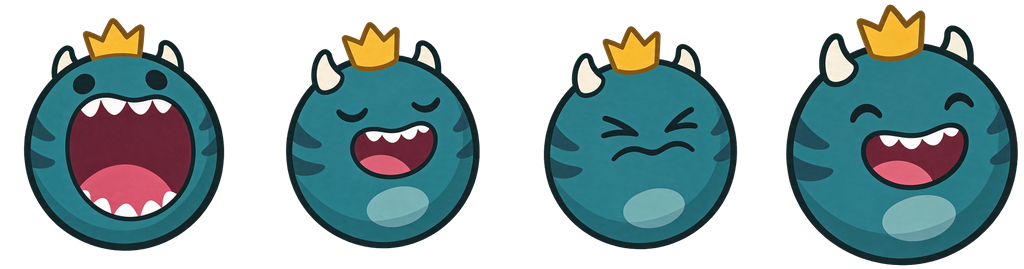
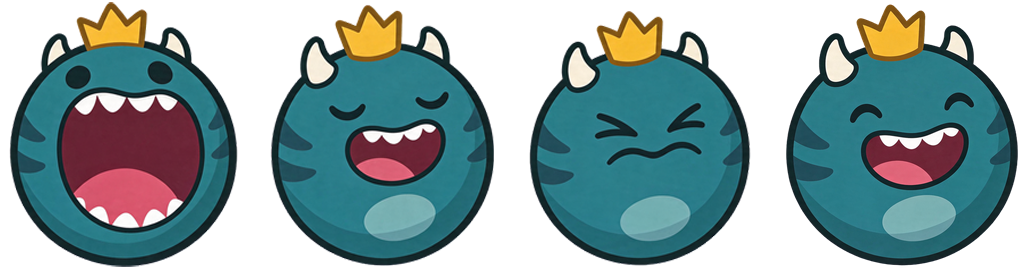
Minion Swarm Claude: minion lv6-8 and eating lv6/lv8 scales, colliders shown, new eating lv6 art, PSD cleanup, Beaver River mockup PSD, build 39

Changed region(s): [[0.0, 0.0, 0.75, 1.0]]

diff --git a/minion-swarm/game.js b/minion-swarm/game.js
@@ -6,7 +6,7 @@
 
 // Build number, shown in the corner. Bump it together with the ?v= in
 // index.html on every push so phones load the new version.
-const BUILD = 38;
+const BUILD = 39;
 
 // ---- Tunable values (all in one place) ------------------------------------
 
@@ -194,9 +194,9 @@ const CONFIG = {
   // the Scale slider on each row in 🎨. Only the picture changes, not colliders.
   artScale: {
     minion_lv1: 1, minion_lv2: 0.85, minion_lv3: 0.75, minion_lv4: 0.65,
-    minion_lv5: 0.7, minion_lv6: 1, minion_lv7: 1, minion_lv8: 1,
+    minion_lv5: 0.7, minion_lv6: 0.95, minion_lv7: 0.95, minion_lv8: 0.9,
     minion_eat: 1, minion_eat_lv2: 1, minion_eat_lv3: 1, minion_eat_lv4: 1,
-    minion_eat_lv5: 1, minion_eat_lv6: 1, minion_eat_lv7: 1, minion_eat_lv8: 1,
+    minion_eat_lv5: 1, minion_eat_lv6: 1.05, minion_eat_lv7: 1, minion_eat_lv8: 0.9,
     minion_leg: 1, minion_shadow: 1,
     resource_1: 1.4, resource_2: 1.25, resource_3: 2.25, resource_4: 1.7, resource_5: 2.2, resource_6: 1.6,
     splash_drop: 1, merge_vfx: 1, tap_marker: 1,
@@ -206,7 +206,7 @@ const CONFIG = {
 
   clearDelay: 1.2,          // seconds between zones
   showLeader: false,        // debug: draw the invisible leader
-  showColliders: false,     // debug: draw collider circles (resources cyan, minions pink)
+  showColliders: true,      // debug: draw collider circles (resources cyan, minions pink)
   loading: {
     text: 'Loading...',
     fontSize: 20,

diff --git a/minion-swarm/index.html b/minion-swarm/index.html
@@ -26,8 +26,8 @@
   <div class="stage">
     <canvas id="game" width="360" height="560"></canvas>
   </div>
-  <script src="../shared/settings-panel.js?v=38"></script>
-  <script src="../shared/asset-panel.js?v=38"></script>
-  <script src="game.js?v=38"></script>
+  <script src="../shared/settings-panel.js?v=39"></script>
+  <script src="../shared/asset-panel.js?v=39"></script>
+  <script src="game.js?v=39"></script>
 </body>
 </html>
